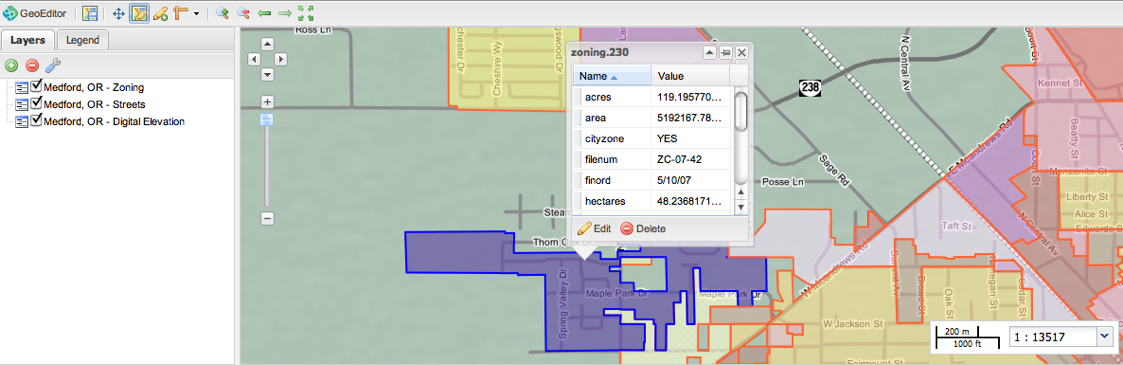
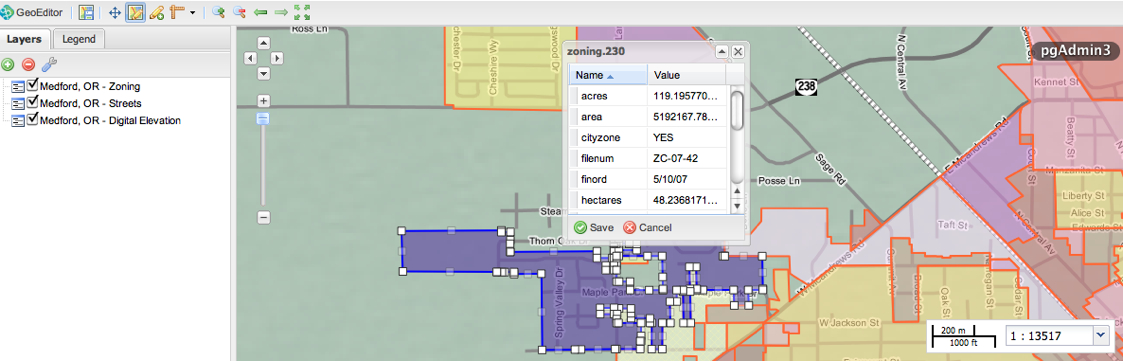
more geoeditor docs
git-svn-id: http://svn.opengeo.org/suite/trunk@1513 fe66add1-021f-4af3-b75b-ea5154e73f91

diff --git a/docs/geoeditor/src/modifying.rst b/docs/geoeditor/src/modifying.rst
@@ -30,26 +30,14 @@ For lines and polygon geometries, continue positioning vertices with a single cl
 
 By default, the :guilabel:`Create a new feature` changes to the :guilabel:`Edit existing feature` tool. Here you can edit new attribute` values. Attributes are descriptions of a geographic feature stored as a row in a table.
 
-You can input attributes after you create a feature by selecting the text field. Select :guilabel:`Save` to apply them to your data source. 
-
-.. figure:: images/modify2.png
-   :align: center
-   :width: 600px
-
-   *Attribute table for a new feature*
-
-Saving 
-------
-
-Any GeoEditor modifications are temporary until you choose to :guilabel:`Save` them.  Canceling or quitting will not save your changes, nor will bookmarking a map document.  To write edits to a data source, you need to specifically save the edits.
 
 Modifying Existing Features
 ---------------------------
 
-To start modifying existing features, use the :guilabel:`Edit existing feature` tool and click anywhere within the feature component.  A feature 
+To start modifying existing features, use the :guilabel:`Edit existing feature` tool and click anywhere within the feature component.  
 
 
-.. figure:: images/modify3.jpg
+.. figure:: images/modify2.jpg
    :align: center
    :width: 600px
 
@@ -57,19 +45,56 @@ To start modifying existing features, use the :guilabel:`Edit existing feature` 
 
 A feature will now selected in *draft* mode for editing. Activate your editing session by clicking the :guilabel:`Edit` button.  
 
-.. figure:: images/modify4.jpg
+.. figure:: images/modify3.jpg
    :align: center
    :width: 600px
 
    *Medford zone 230 ready for editing*
 
-There are two, almost identical ways to reshape a feature.  You can either click a vertex and drag it to a new location.  You can also specify a new vertex by clicking and dragging a *phantom* vertex.   For instance, you can drag a vertex to restructure the boundaries of a zone with a fish tail.
+Reshaping
+`````````
+To reshape a feature, you can select a vertex and drag it to a new location.  You can also specify a new vertex by clicking and dragging a *phantom* vertex.   For instance, you can drag a vertex to restructure the boundaries of a zone with a fish tail.
 
-.. figure:: images/modify5.png
+.. figure:: images/modify4.png
    :align: center
    :width: 600px
 
    *Modified zone 230*
 
-As with adding a feature, you can also modify tabular attributes selecting the text field. Select :guilabel:`Save` to apply them to your data source. 
+Deleting Vertices
+`````````````````
+Position the your pointer over a vertex and press :guilabel:`Shift-D` to delete.  GeoEditor immediately previews the modified feature.  
+ 
+.. figure:: images/modify5.png
+   :align: center
+   :width: 600px
+
+   *Deleting a taxlot corner*
+
+Deleting Features
+`````````````````
+
+In order to delete a feature from the map and the datastore, select the :guilabel:`Edit existing feature` tool. Click within the feature you want to delete and select the :guilabel:`Delete` button in the resulting dialog. You will be prompted to confirm the feature deletion. 
+
+.. figure:: images/modify6.png
+   :align: center
+   :width: 600px
+
+   *Selecting a firestation to delete*
+   
+Inputting attributes 
+--------------------
+
+You can add or edit attributes by selecting the text field. Select :guilabel:`Save` to apply them to your data source. 
+
+   .. figure:: images/modify7.png
+      :align: center
+      :width: 600px
+
+      *Attribute table for a new feature*
+
+Saving 
+------
+
+Any GeoEditor modifications are temporary until you choose to :guilabel:`Save` them.  Canceling or quitting will not save your changes, nor will bookmarking a map document.  To write edits to a data source, you need to specifically save the edits.
 

diff --git a/docs/geoeditor/src/configuration.rst b/docs/geoeditor/src/configuration.rst
@@ -1,0 +1,43 @@
+.. _geoeditor.configuration:
+
+Configuration
+=============
+GeoEditor is configured to work with your local GeoServer with default map settings. However, you can customize these options by modifying :guilabel:`GeoEditor/index.html`. 
+
+WMS Configuration
+-----------------
+WMS is standard protocol for requesting geospatial data dynamically rendered as an image. The images get returned as tiles which cover the area of the map container. GeoEditor loads capabilities from a single WMS, as specified in index.html with the parameter :guilabel:`wms`.
+
+.. code-block:: javascript
+
+    wms: "/geoserver/wms",
+
+Because the OpenGeo Suite GeoEditor runs on the same origin as GeoServer, our WMS value is a relative URL. For GeoEditor to load capabilities form a different host than one that serves GeoEditor, you need to specify an absolute URL for the WMS, and configure a proxy. 
+
+.. code-block:: javascript
+
+    proxy: "/proxy/?url=",
+    
+For a proxy that works with mod_python, see the following: :ref:`http://svn.opengeo.org/util/proxy/proxy.py`. 
+
+Map Configuration
+-----------------
+The map, and map parameters loaded at startup can also be configured.  
+
+.. code-block:: javascript
+
+    map: {
+        projection: "EPSG:4326",
+        maxResolution: 1.40625,
+        numZoomLevels: 22,
+        center: [0, 0],
+        zoom: 1,
+        layers: [{
+            name: "world",
+            title: "Base Map",
+            format: "image/png"
+        }]
+    },
+    
+For example, if the number of 22 zoom levels seems gratuitous, you can specify a more conservative range of 18. 
+

diff --git a/docs/geoeditor/src/preparing.rst b/docs/geoeditor/src/preparing.rst
@@ -14,7 +14,7 @@ Area Selection
 
 To select an area for editing, you first need to frame the data in an appropriate view.  Although you can edit data in any view, it is generally best to select a frame with the most detail. 
 
-There are several options for selecting your data frame.  Use can use the pan and zoom tools available in the ::guilabel:`Tools panel` along with the control options in the :guilabel:`Map window` to position and scale an image.  When you use these Zoom tools, each click or scale selection magnifies or reduces the image to the next preset around the current center point.  Double-clicking a point, allows you specify the center of an area you want to magnify.  
+There are several options for selecting your data frame.  Use can use the pan and zoom tools available in the :guilabel:`Tools panel` along with the control options in the :guilabel:`Map window` to position and scale an image.  When you use these Zoom tools, each click or scale selection magnifies or reduces the image to the next preset around the current center point.  Double-clicking a point, allows you specify the center of an area you want to magnify.  
 
 For a smooth zoom, you can also hold down Shift and drag a red rectangle around the area you want to magnify. For a smooth pan, you can use the :guilabel:`Pan Map` tool to nudge the map in the direction you want to view. 
 

diff --git a/docs/geoeditor/src/introduction.rst b/docs/geoeditor/src/introduction.rst
@@ -33,7 +33,7 @@ Layers panel
 
 You can add layers by clicking on the (+) button.
 
-The :guilabel:`Available Layers` dialog lists all layers on the current :term:`WMS` server.  To display information about the layer, click on the (+) next to each layer. Select one or more layers and click ``Add Layers`` to add them to the list and the map window.
+The :guilabel:`Available Layers` dialog lists all layers on the current WMS server.  To display information about the layer, click on the (+) next to each layer. Select one or more layers and click ``Add Layers`` to add them to the list and the map window.
 
 .. note:: GeoEditor can only provide access to the default WMS server. 
 

diff --git a/docs/geoeditor/src/index.rst b/docs/geoeditor/src/index.rst
@@ -14,7 +14,8 @@ This guide provides a core overview of GeoEditor.
    introduction
    preparing
    modifying
-   glossary
+   configuration
+   
     
 
 
